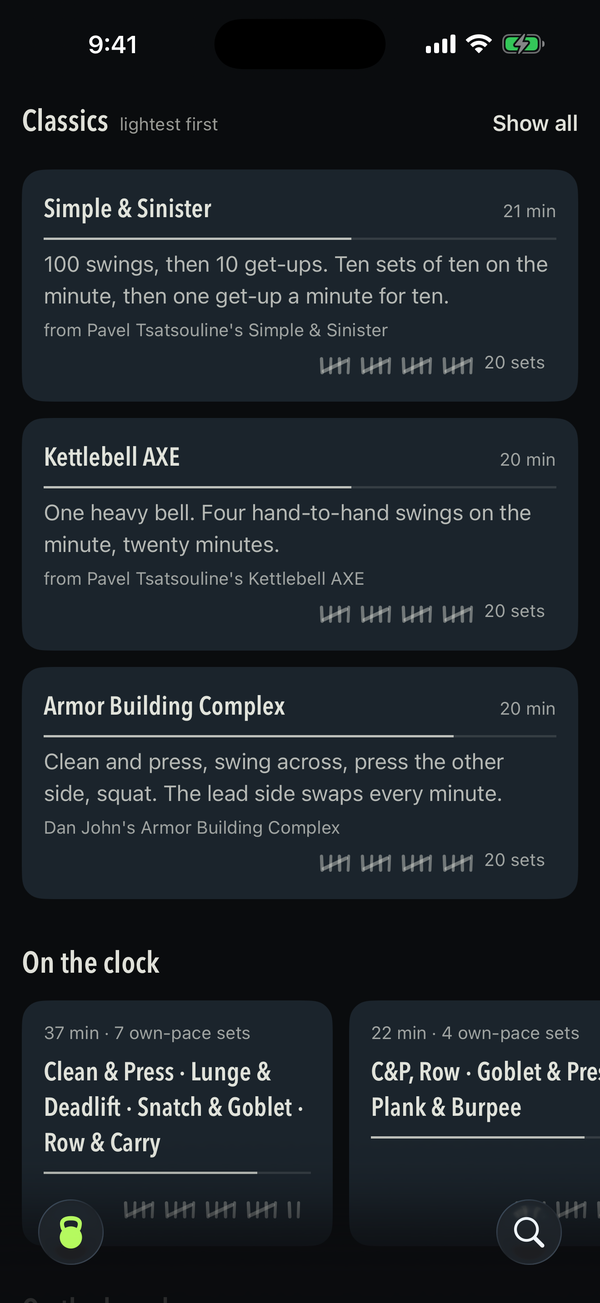
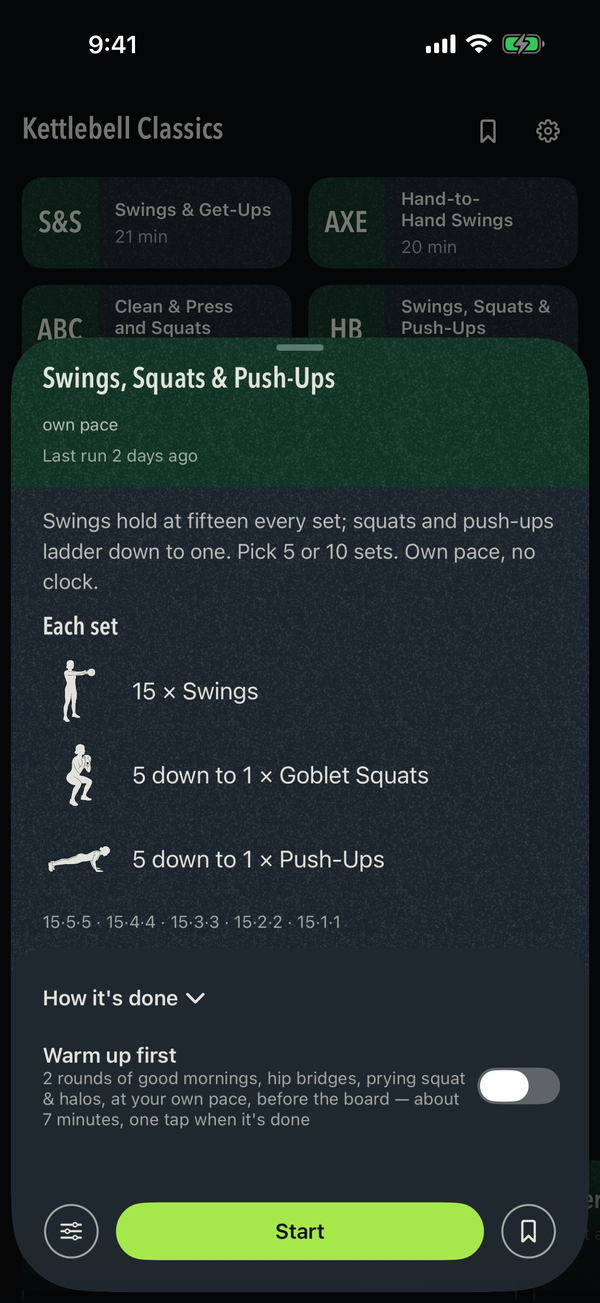
The SingleBell page names the Classics for what they ask
The app's Classics took names that describe them and dropped their authors' credits, so
the page does too: Swings & Get-Ups, Swings and Power Push-Ups, Clean & Press Ladder,
Hand-to-Hand Swings, Clean & Press and Squats, Swings, Squats & Push-Ups and Snatch
Intervals, no credit lines, and the shortcut is "Start swings and get-ups". The six phone
pictures are the new store frames, shot on 3 October from the renamed app.

diff --git a/docs/singlebell.html b/docs/singlebell.html
@@ -412,7 +412,7 @@ ul.task-list li input[type="checkbox"] {
 <p><strong>On the Lock Screen and in the Dynamic Island.</strong> The phase in its own light, the clock, what you are doing, what comes next, and the two controls a set actually needs — Pause, and Skip or Set done — without unlocking the phone.</p>
 <p><strong>On your wrist.</strong> With an Apple Watch paired, the same card appears in the Smart Stack: the phase and the clock, the movement, Pause and Set done under a thumb that never leaves the wrist. Nothing runs on the watch — the phone draws the card and performs the press — so there is no second app to install and nothing to keep in sync. Needs watchOS 11.</p>
 <p><strong>On the home screen.</strong> Two widgets: today’s board, dealt by the same rule Today uses, and the week as seven strokes.</p>
-<p><strong>Without opening the app.</strong> <em>Start today’s practice</em>, <em>Start Simple &amp; Sinister</em>, <em>Pause</em> and <em>Resume</em> are there for Siri, Spotlight and the Action Button the moment the app is installed, with nothing to set up.</p>
+<p><strong>Without opening the app.</strong> <em>Start today’s practice</em>, <em>Start swings and get-ups</em>, <em>Pause</em> and <em>Resume</em> are there for Siri, Spotlight and the Action Button the moment the app is installed, with nothing to set up.</p>
 <p><strong>On the wall.</strong> Mirror the phone to a television and the practice gets a room drawn for that screen — the number at whatever size the set can carry, the movement under it, the phase in one corner — while the controls stay under your thumb on the phone.</p>
 </section>
 <section id="the-room" class="level2">
@@ -422,25 +422,25 @@ ul.task-list li input[type="checkbox"] {
 </section>
 <section id="the-classics" class="level2">
 <h2 class="anchored" data-anchor-id="the-classics">The classics</h2>
-<p>The protocols the kettlebell world already runs, each credited on its own board and adjustable before you start.</p>
+<p>The protocols the kettlebell world already runs, each named for what it asks and adjustable before you start.</p>
 <div class="shot-right">
 <div class="quarto-figure quarto-figure-center">
 <figure class="figure">
 <p><img src="images/singlebell/classics.png" class="img-fluid figure-img"></p>
-<figcaption>Each classic carries its source</figcaption>
+<figcaption>Each classic is named for what it asks</figcaption>
 </figure>
 </div>
 </div>
-<p><span class="name">Simple &amp; Sinister</span> — 100 swings, then 10 get-ups. Ten sets of ten on the minute, then one get-up a minute for ten. <em>Pavel Tsatsouline.</em></p>
-<p><span class="name">The Quick and the Dead</span> — power in short bursts with generous rest: swings and power push-ups, or snatches alone, chosen on the board. <em>Pavel Tsatsouline.</em></p>
-<p><span class="name">Rite of Passage</span> — ladders of one-arm clean &amp; press, one to five a side, pull-ups between rungs. Own pace, no clock. <em>Pavel Tsatsouline, Enter the Kettlebell.</em></p>
-<p><span class="name">Kettlebell AXE</span> — one heavy bell, four hand-to-hand swings on the minute, twenty minutes. <em>Pavel Tsatsouline.</em></p>
-<p><span class="name">Armor Building Complex</span> — clean and press, swing across, press the other side, squat. The lead side swaps every minute. <em>Dan John.</em></p>
-<p><span class="name">Humane Burpee</span> — swings hold at fifteen every set while squats and push-ups ladder down to one. Pick five sets or ten. <em>Dan John.</em></p>
-<p><span class="name">Advanced Minimalist</span> — snatches alone, two minutes on and two off, with the series and rep scheme rolled fresh. <em>Pavel Tsatsouline, The Quick and the Dead.</em></p>
-<p><span class="name">The Simple &amp; Sinister Warm-up</span> — hip bridges, prying goblet squats, halos; three rounds on the clock. The same three lines open Today’s Practice, under one line chosen for the day’s lift.</p>
-<p>Each one can be re-paced on the slate before it starts: run Simple &amp; Sinister on the minute or at your own pace, swap the get-up out if you haven’t learned it yet, run Quick and the Dead as snatches alone, tighten the Axe to every thirty seconds, run the Complex for thirty minutes or on ninety-second rounds, choose the Humane Burpee’s set count.</p>
-<p><strong>Warm up first.</strong> Every board carries the switch, on until you turn it off. Simple &amp; Sinister warms up on its own trio. Everything else takes a round dealt for what follows — the world’s greatest stretch before anything that goes overhead, good mornings before swings, jumping jacks otherwise, the trio under it — for two rounds: each move its own station on the clock, or one block marked down with a tap on a board. Never more than seven minutes in front of a classic.</p>
+<p><span class="name">Swings &amp; Get-Ups</span> — 100 swings, then 10 get-ups. Ten sets of ten on the minute, then one get-up a minute for ten.</p>
+<p><span class="name">Swings and Power Push-Ups</span> — power in short bursts with generous rest: swings and power push-ups, or snatches alone, chosen on the board.</p>
+<p><span class="name">Clean &amp; Press Ladder</span> — ladders of one-arm clean &amp; press, one to five a side, pull-ups between rungs. Own pace, no clock.</p>
+<p><span class="name">Hand-to-Hand Swings</span> — one heavy bell, four hand-to-hand swings on the minute, twenty minutes.</p>
+<p><span class="name">Clean &amp; Press and Squats</span> — clean and press, swing across, press the other side, squat. The lead side swaps every minute.</p>
+<p><span class="name">Swings, Squats &amp; Push-Ups</span> — swings hold at fifteen every set while squats and push-ups ladder down to one. Pick five sets or ten.</p>
+<p><span class="name">Snatch Intervals</span> — snatches alone, two minutes on and two off, with the series and rep scheme rolled fresh.</p>
+<p><span class="name">The Swings &amp; Get-Ups Warm-up</span> — hip bridges, prying goblet squats, halos; three rounds on the clock. The same three lines open Today’s Practice, under one line chosen for the day’s lift.</p>
+<p>Each one can be re-paced on the slate before it starts: run Swings &amp; Get-Ups on the minute or at your own pace, swap the get-up out if you haven’t learned it yet, run Swings and Power Push-Ups as snatches alone, tighten Hand-to-Hand Swings to every thirty seconds, run Clean &amp; Press and Squats for thirty minutes or on ninety-second rounds, choose the set count for Swings, Squats &amp; Push-Ups.</p>
+<p><strong>Warm up first.</strong> Every board carries the switch, on until you turn it off. Swings &amp; Get-Ups warms up on its own trio. Everything else takes a round dealt for what follows — the world’s greatest stretch before anything that goes overhead, good mornings before swings, jumping jacks otherwise, the trio under it — for two rounds: each move its own station on the clock, or one block marked down with a tap on a board. Never more than seven minutes in front of a classic.</p>
 </section>
 <section id="build-your-own" class="level2">
 <h2 class="anchored" data-anchor-id="build-your-own">Build your own</h2>
@@ -488,7 +488,7 @@ ul.task-list li input[type="checkbox"] {
 <h3 class="anchored" data-anchor-id="what-is-stored-and-where">What is stored, and where</h3>
 <p>Everything the app remembers is written to your phone’s own storage, in a container shared only between SingleBell and its own widgets — that sharing is what lets the home-screen widget show today’s board. That container is on your phone and nowhere else. It holds:</p>
 <ul>
-<li><strong>your settings</strong> — the sound switches and cue volume, whether you have a pull-up bar, whether practices warm up first, how long Today’s Practice runs, the get-ready count, how you last set up each classic on its board (Simple &amp; Sinister’s pace, the Rite’s pull, the Complex’s clock), whether you have put the “Start here” card away, and whether the app has explained “/side” to you once;</li>
+<li><strong>your settings</strong> — the sound switches and cue volume, whether you have a pull-up bar, whether practices warm up first, how long Today’s Practice runs, the get-ready count, how you last set up each classic on its board (the pace of Swings &amp; Get-Ups, the pull in the Clean &amp; Press Ladder, the clock on Clean &amp; Press and Squats), whether you have put the “Start here” card away, and whether the app has explained “/side” to you once;</li>
 <li><strong>your Library</strong> — the practices you chose to save, and any move you typed in yourself;</li>
 <li><strong>a list of the practices you finished, and when</strong> — which practice, the date, how long it took, and the one optional word from the closing screen, Light, Right or Heavy. It marks the practice calendar, lets a chalkboard say “last run 9 days ago”, and picks which lift Today’s Practice leads with. That is everything it is used for;</li>
 <li><strong>the last six practices you ran</strong>, so the Library can offer them again;</li>
